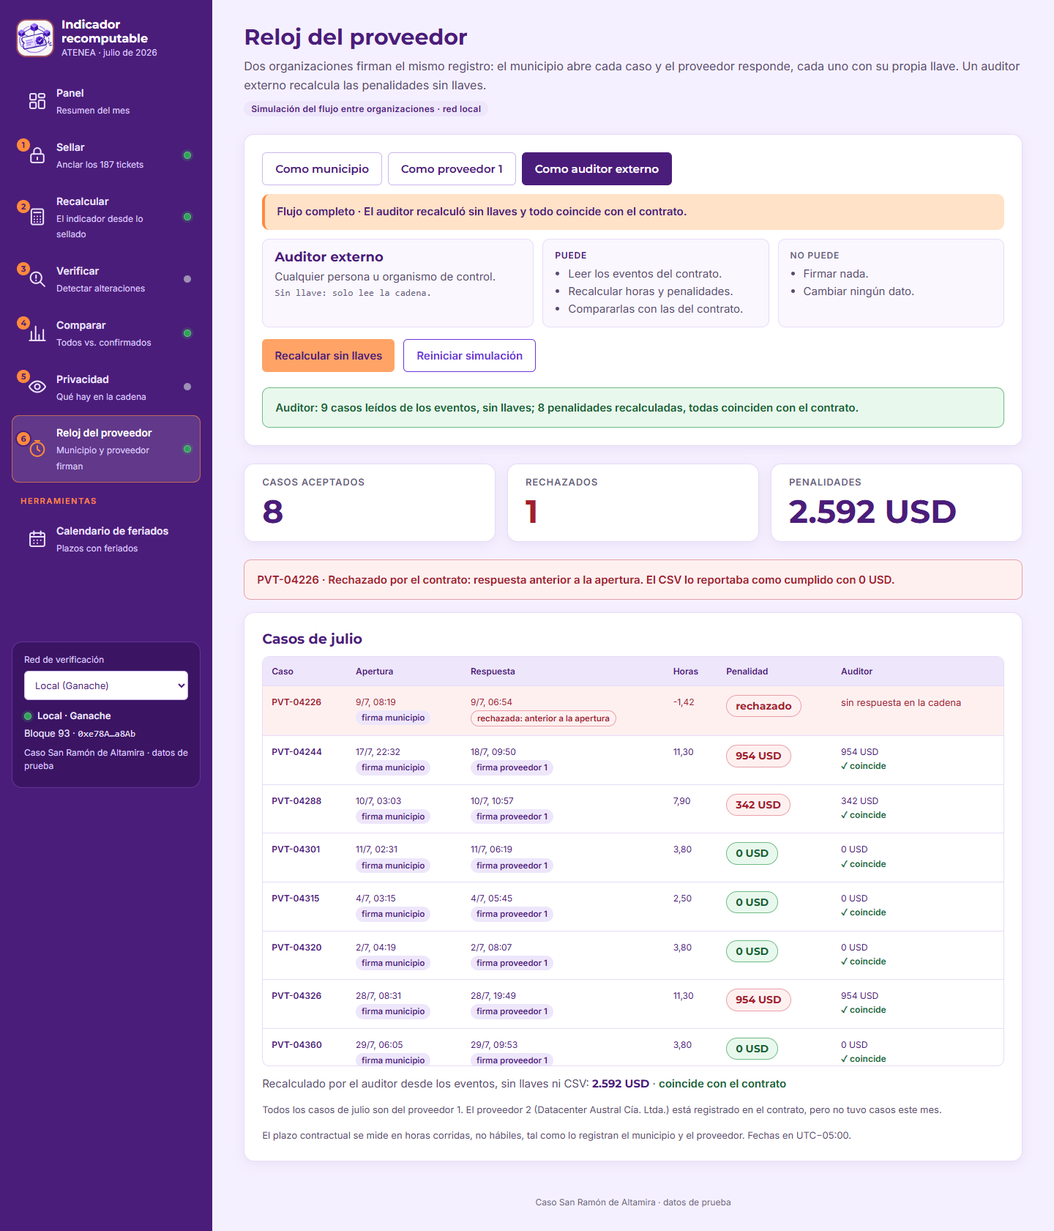
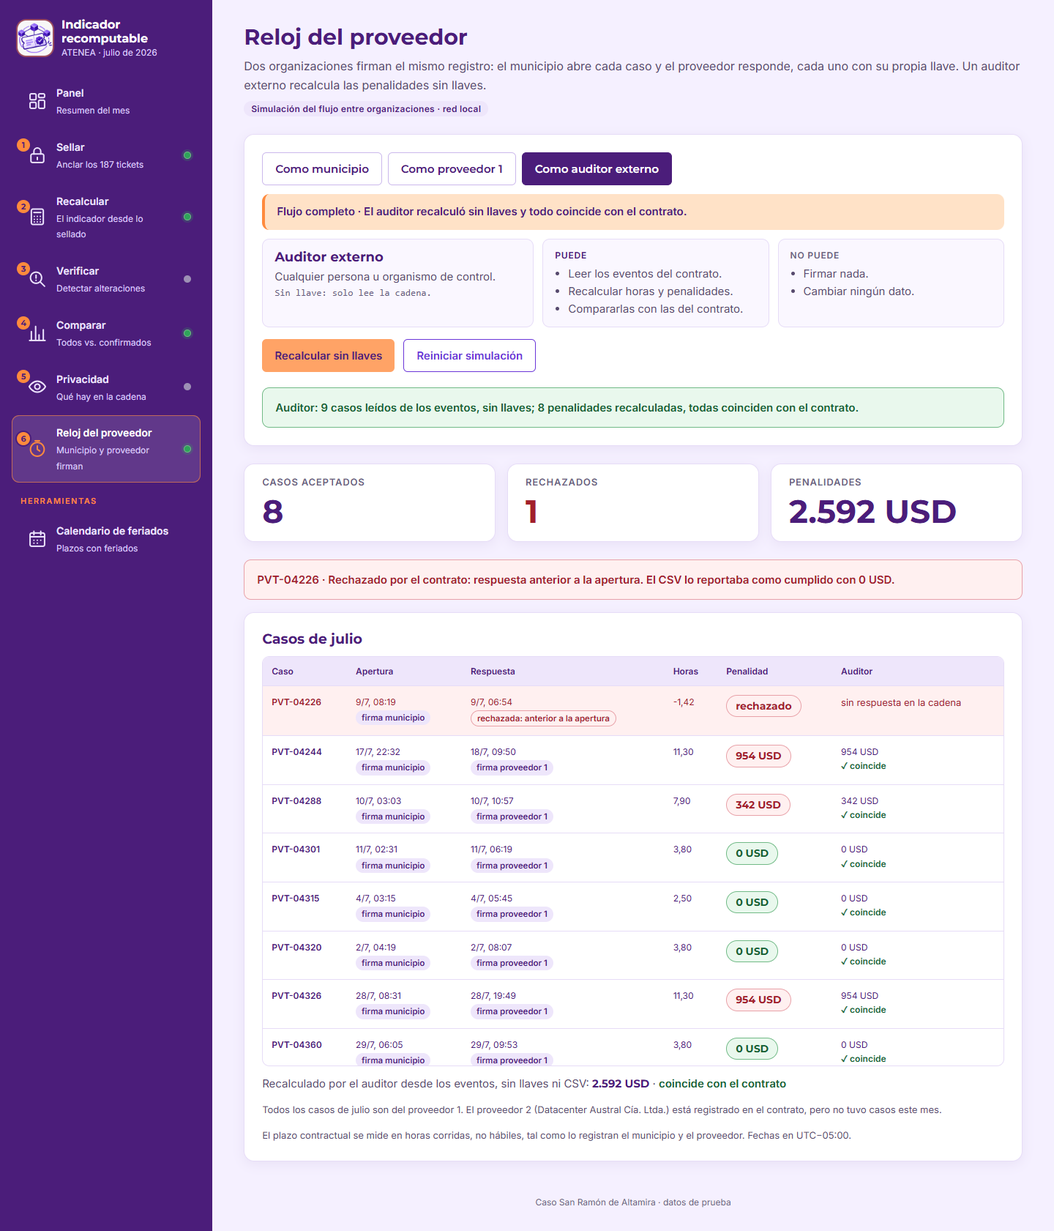
Fase 10B: sellado en vivo desde cero y menú más limpio
- npm run presentacion (scripts/presentacion.mjs): archiva el período activo de Sepolia en
  evidencias/sepolia-historial/ (archivarPeriodo, nada se borra; las sales siguen en .secreto/)
  y arranca la app en modo presentación, sin período activo. npm start conserva el período.
- GET /api/modo: {presentacion, sepoliaRpc}. La página abre en Sepolia por defecto; usa la red
  local si no hay internet o, fuera del modo presentación, si no hay período.
- Sellar: «Administración» arriba y abierta, con cuatro pasos numerados (Conectar MetaMask con
  cuenta, red y owner; Preparar nuevo período; Cargar originales; Sellar julio). Cada paso se
  habilita cuando el anterior está completo y los hechos quedan con ✓. Sin período activo:
  «Sin período activo · prepara un nuevo período para sellar julio».
- Menú lateral sin el cuadro «Red de verificación». El selector de red queda al final de
  Administración como respaldo; red, bloque y contrato (con Etherscan) pasan a una línea del
  Panel (mismos ids #rpcDot, #netName, #netBlock, #netContract).
- audit.mjs: elige la red local desde Administración; nueva prueba complementaria del arranque
  sin período (julio no aparece sellado, pasos 2 a 4 esperan al 1).
- README y docs/DEMO.md: el día de la presentación se usa npm.cmd run presentacion.
- npm test 62/62; verify:source 11/11; auditoría: Nivel 1 5/5 y Nivel 2 APROBADO.

Changed region(s): [[0.0, 0.5259, 0.1875, 0.6187]]

diff --git a/src/index.html b/src/index.html
@@ -60,14 +60,6 @@
       <li><a href="#/feriado" data-route="feriado"><svg class="icon"><use href="#i-calendar"/></svg><span class="item"><strong>Calendario de feriados</strong><small>Plazos con feriados</small></span></a></li>
     </ul>
   </nav>
-
-  <div class="netcard">
-    <label for="network">Red de verificación</label>
-    <select id="network"><option value="local">Local (Ganache)</option><option value="sepolia">Pública (Sepolia)</option></select>
-    <p class="netline"><span id="rpcDot" class="dot gray" role="img" aria-label="RPC: sin comprobar"></span><span id="netName">Conectando…</span></p>
-    <p class="netmeta">Bloque <span id="netBlock">—</span> · <span id="netContract" class="hash">—</span></p>
-    <p class="netnote">Caso San Ramón de Altamira · datos de prueba</p>
-  </div>
 </aside>
 
 <main id="main">
@@ -81,6 +73,7 @@
     <article class="card stat"><h2>Tickets sellados</h2><p class="stat-value" id="sumCount">—</p><p class="small">Cantidad registrada en la cadena.</p></article>
     <article class="card stat"><h2>Brecha A − B</h2><p class="stat-value" id="sumGap">—</p><p class="small">Puntos porcentuales entre todos los cierres y los confirmados.</p></article>
   </div>
+  <p class="panel-net"><span id="rpcDot" class="dot gray" role="img" aria-label="RPC: sin comprobar"></span><span id="netName">Conectando…</span><span class="sep">·</span><span>Bloque <span id="netBlock">—</span></span><span class="sep">·</span><span>Contrato <span id="netContract" class="hash">—</span></span></p>
   <div class="card">
     <h2>Verificación del mes</h2>
     <ol id="demoScript" class="script">
@@ -97,21 +90,48 @@
 
 <section id="s1" class="view" data-route="sellar" aria-labelledby="t-sellar" hidden>
   <header class="viewhead"><h1 id="t-sellar" tabindex="-1">Sellar</h1><p>Anclar en la cadena el compromiso de los 187 tickets de julio, sin datos personales.</p></header>
+  <details id="adminFlow" class="admin flow" open><summary>Administración · sellar julio</summary>
+    <ol class="flow-steps">
+      <li class="flow-step" data-flow-step="1"><span class="flow-num" aria-hidden="true">1</span><div class="flow-body">
+        <h3>Conectar MetaMask</h3>
+        <p id="walletInfo" class="small">Sin conectar.</p>
+        <button id="connectWallet" type="button" class="secondary">Conectar MetaMask</button>
+      </div></li>
+      <li class="flow-step" data-flow-step="2"><span class="flow-num" aria-hidden="true">2</span><div class="flow-body">
+        <h3>Preparar nuevo período en Sepolia</h3>
+        <p id="periodInfo" class="small"></p>
+        <button id="prepareSepolia" type="button" class="secondary">Preparar nuevo período en Sepolia</button>
+        <output id="adminStatus" class="status info" aria-live="polite" hidden></output>
+      </div></li>
+      <li class="flow-step" data-flow-step="3"><span class="flow-num" aria-hidden="true">3</span><div class="flow-body">
+        <h3>Cargar los originales entregados</h3>
+        <p class="small">Se valida cada archivo contra la huella de la carpeta fuente verificada. Cada columna de los tickets participa en el compromiso; del catálogo, el reporte publicado, la bitácora y las reaperturas solo entra su SHA-256.</p>
+        <button id="load">Cargar los originales entregados</button>
+        <details><summary>Seleccionar los originales a mano</summary>
+          <p class="small">Sus huellas deben coincidir con las de la carpeta fuente verificada.</p>
+          <div class="inputs">
+            <label>Tickets<input id="originalTickets" type="file" accept=".csv"></label>
+            <label>Catálogo de servicios<input id="originalCatalog" type="file" accept=".csv"></label>
+            <label>Reporte mensual publicado<input id="originalReport" type="file" accept=".csv"></label>
+            <label>Bitácora de eventos<input id="originalBitacora" type="file" accept=".csv"></label>
+            <label>Reaperturas<input id="originalReopenings" type="file" accept=".csv"></label>
+          </div>
+          <button id="prepareFiles">Validar originales seleccionados</button>
+        </details>
+      </div></li>
+      <li class="flow-step" data-flow-step="4"><span class="flow-num" aria-hidden="true">4</span><div class="flow-body">
+        <h3>Sellar julio en blockchain</h3>
+        <button id="seal" disabled>Sellar julio en blockchain</button>
+        <p id="sealHint" class="small seal-hint" aria-live="polite">Primero carga los originales.</p>
+      </div></li>
+    </ol>
+    <div class="netpick">
+      <label for="network">Red · respaldo para emergencias</label>
+      <select id="network"><option value="sepolia">Pública (Sepolia)</option><option value="local">Local (Ganache)</option></select>
+      <p id="netHint" class="small">Usa «Local (Ganache)» solo si falla internet: funciona en este equipo y sella sin MetaMask.</p>
+    </div>
+  </details>
   <div class="card">
-    <p>Se valida cada archivo contra la huella de la carpeta fuente verificada. Cada columna de los tickets participa en el compromiso; del catálogo, el reporte publicado, la bitácora y las reaperturas solo entra su SHA-256. Una verificación posterior no puede cambiar el sello.</p>
-    <div class="actions"><button id="load">Cargar los originales entregados</button><button id="seal" disabled>Sellar julio en blockchain</button></div>
-    <p id="sealHint" class="small seal-hint" aria-live="polite">Primero carga los originales.</p>
-    <details><summary>Seleccionar los originales a mano</summary>
-      <p class="small">Sus huellas deben coincidir con las de la carpeta fuente verificada.</p>
-      <div class="inputs">
-        <label>Tickets<input id="originalTickets" type="file" accept=".csv"></label>
-        <label>Catálogo de servicios<input id="originalCatalog" type="file" accept=".csv"></label>
-        <label>Reporte mensual publicado<input id="originalReport" type="file" accept=".csv"></label>
-        <label>Bitácora de eventos<input id="originalBitacora" type="file" accept=".csv"></label>
-        <label>Reaperturas<input id="originalReopenings" type="file" accept=".csv"></label>
-      </div>
-      <button id="prepareFiles">Validar originales seleccionados</button>
-    </details>
     <output id="sealStatus" class="status pending" aria-live="polite">Sin sellado comprobado.</output>
     <div id="commitment" class="factbox"></div>
     <div id="sealLinks" class="seal-links"></div>
@@ -119,11 +139,6 @@
     <details><summary>Respaldo del sello</summary>
       <p class="small">Copia del manifiesto con la huella de los 187 tickets. La app ya la guarda sola en evidencias/; es una copia de respaldo.</p>
       <button id="export" class="secondary" disabled>Descargar respaldo del sellado</button>
-    </details>
-    <details class="admin"><summary>Administración</summary>
-      <p class="small">Antes de cada presentación: despliega con MetaMask un contrato nuevo en Sepolia para que julio quede sin sellar. El servidor lo comprueba en la red pública antes de usarlo; el período anterior queda en el historial.</p>
-      <button id="prepareSepolia" type="button" class="secondary">Preparar nuevo período en Sepolia</button>
-      <output id="adminStatus" class="status info" aria-live="polite" hidden></output>
     </details>
   </div>
   <a class="next" href="#/recalcular" data-next="sellar" hidden>Siguiente: Recalcular <svg class="icon"><use href="#i-arrow"/></svg></a>

diff --git a/src/style.css b/src/style.css
@@ -201,20 +201,11 @@ main {
 .dot.red { background: var(--red-dot); box-shadow: 0 0 0 3px rgba(214, 64, 78, 0.25); }
 .dot.gray { background: var(--gray-dot); }
 
-.netcard {
-  margin-top: auto;
-  padding: var(--space-4);
-  border: 1px solid var(--navy-line);
-  border-radius: var(--radius-lg);
-  background: var(--navy-deep);
-  font-size: 13px;
-}
-.netcard label { display: block; color: var(--ice); font-size: 12px; margin-bottom: var(--space-2); min-width: 0; }
-.netcard select { margin: 0 0 var(--space-3); background: #fff; }
-.netcard p { margin: var(--space-1) 0; color: #ede4ff; line-height: 1.5; }
-.netline { display: flex; align-items: center; gap: var(--space-2); font-weight: 600; }
-.netmeta { color: var(--ice); overflow-wrap: anywhere; }
-.netnote { color: var(--ice) !important; font-size: 12px; margin-top: var(--space-2) !important; }
+/* Red activa: una línea en el Panel (antes era un cuadro en el menú lateral). */
+.panel-net { display: flex; flex-wrap: wrap; align-items: center; gap: var(--space-1) var(--space-2); margin: calc(-1 * var(--space-2)) 0 var(--space-5); font-size: 13px; color: var(--text); overflow-wrap: anywhere; }
+.panel-net #netName { font-weight: 600; color: var(--ink); }
+.panel-net .sep { color: var(--gray-dot); }
+.panel-net a { color: var(--teal); font-weight: 600; }
 
 /* ---------- Vistas ---------- */
 
@@ -493,9 +484,30 @@ table.cases td.small { white-space: normal; min-width: 190px; }
 /* ---------- Sepolia con MetaMask ---------- */
 .seal-links { margin: var(--space-3) 0 var(--space-2); font-weight: 600; }
 .seal-links:empty { display: none; }
-.netmeta a { color: #fff; text-decoration: underline; text-underline-offset: 2px; }
 details.admin { background: transparent; border: 1px dashed var(--border-strong); }
 details.admin summary { font-weight: 600; color: var(--text); }
+/* Sellado en vivo: cuatro pasos numerados; cada uno se habilita cuando el anterior está completo. */
+details.admin.flow { background: var(--surface); border: 1px solid var(--border); box-shadow: var(--shadow); margin-bottom: var(--space-5); }
+details.admin.flow > summary { font-family: var(--font-display); font-size: 17px; color: var(--navy); }
+.flow-steps { list-style: none; margin: var(--space-4) 0 0; padding: 0; display: grid; gap: var(--space-3); }
+.flow-step { display: grid; grid-template-columns: 36px minmax(0, 1fr); gap: var(--space-3); padding: var(--space-3) var(--space-4); border: 1px solid var(--border); border-radius: var(--radius); background: var(--surface-soft); }
+.flow-step h3 { margin: 4px 0 var(--space-1); font-family: var(--font-display); font-size: 16px; color: var(--navy); }
+.flow-step p { margin: 0 0 var(--space-2); }
+.flow-step button { margin: 0 0 var(--space-1); }
+.flow-step details { margin-top: var(--space-2); }
+.flow-num { display: grid; place-items: center; width: 32px; height: 32px; border-radius: 50%; background: #fff; border: 2px solid var(--border-strong); color: var(--muted); font: 700 15px/1 var(--font-display); }
+.flow-step.current { border-color: var(--accent); background: #fff; }
+.flow-step.current .flow-num { border-color: var(--accent); background: var(--accent); color: #fff; }
+.flow-step.done .flow-num { border-color: var(--navy); background: var(--navy); color: transparent; position: relative; }
+.flow-step.done .flow-num::after { content: "✓"; position: absolute; color: #fff; font-size: 16px; }
+.flow-step.na { opacity: 0.6; }
+.flow-step.na .flow-num { border-style: dashed; }
+.wallet-ok { font-weight: 600; color: var(--ink); }
+.wallet-no { font-weight: 600; color: var(--amber-ink); }
+.netpick { margin-top: var(--space-4); padding-top: var(--space-3); border-top: 1px dashed var(--border-strong); max-width: 420px; }
+.netpick label { display: block; font-size: 13px; font-weight: 600; color: var(--text); }
+.netpick select { margin-top: var(--space-1); }
+.netpick p { margin: var(--space-1) 0 0; }
 
 /* ---------- Reloj del proveedor por roles ---------- */
 .sim-note { display: inline-block; margin-top: var(--space-2); padding: 3px 10px; border-radius: 999px; background: #eee6fb; color: var(--ink); font-size: 12px; font-weight: 600; letter-spacing: 0.3px; }

diff --git a/docs/DEMO.md b/docs/DEMO.md
@@ -5,9 +5,9 @@ Hilo conductor: julio de 2026. Los cinco criterios del Nivel 1, en su orden, y d
 ## Preparación (antes del cronómetro)
 
 1. `npm.cmd ci --no-audit --no-fund` y `npm.cmd test` (todo en verde).
-2. Cerrar cualquier proceso en los puertos 8080 y 8545 y ejecutar `npm.cmd start` en la computadora del municipio. Abrir http://127.0.0.1:8080. (Para Sepolia no usar Render: su disco no guarda la sal entre reinicios.)
+2. Cerrar cualquier proceso en los puertos 8080 y 8545 y ejecutar **`npm.cmd run presentacion`** en la computadora del municipio. Archiva el período activo de Sepolia en `evidencias/sepolia-historial/` (no borra nada: las sales siguen en `.secreto/`) y abre la app **sin período activo**. Abrir http://127.0.0.1:8080: Sellar dice «Sin período activo · prepara un nuevo período para sellar julio». (Para Sepolia no usar Render: su disco no guarda la sal entre reinicios.)
 3. MetaMask: cuenta del municipio, red Sepolia, con Sepolia ETH de prueba.
-4. **Preparar nuevo período**: vista Sellar → «Administración» → «Preparar nuevo período en Sepolia» → firmar en MetaMask. Esperar «Período preparado… sin sellar, comprobado en Sepolia». El selector de red queda en «Pública (Sepolia)» y julio sin sellar.
+4. Si la app se cierra por accidente durante la presentación, reabrirla con `npm.cmd start`: conserva el último período activo y su sello. (Si se cerró antes de preparar el período, volver a usar `npm.cmd run presentacion`.)
 5. Abrir en el Bloc de notas una **copia** de `datos/tickets.csv` (por ejemplo en el Escritorio). No editar el original y no usar un editor con autoguardado: guardaría el cambio a medio escribir. Dejar el cursor en TK-2026-04201, primera fila.
 6. Tener a mano las dos láminas de `presentacion/`.
 7. Sin internet: usar la red «Local (Ganache)» con `npm.cmd run demo` (o `INICIAR_DEMO.cmd`), que crea una instancia nueva sin sellar. Todo funciona igual, sellando sin MetaMask.
@@ -19,7 +19,7 @@ La demo sigue el menú lateral de arriba hacia abajo: **Panel → 1 Sellar → 2
 | Tiempo | Vista (criterio) | Acción visible | Mensaje |
 |---|---|---|---|
 | 0:00–0:15 | Panel | Mostrar el titular, las cuatro tarjetas en pendiente y el guion sin checks. | Esto es lo que vamos a demostrar en cinco minutos. |
-| 0:15–0:50 | Sellar (1) | Red «Pública (Sepolia)». «Cargar los originales entregados» → 187/187. «Sellar julio en blockchain» → firmar en MetaMask → «Esperando confirmación de la red…» → SELLADO CONFIRMADO y «✓ Julio ya está sellado». Abrir el enlace «Transacción del sello en Etherscan». | El municipio firma con su propia llave, que nunca sale de MetaMask. Anclamos los 187 tickets con sus tiempos y su SLA; en cadena solo van hashes, conteos y período. |
+| 0:15–1:10 | Sellar (1) | «Administración», arriba y abierta, en cuatro pasos: ① «Conectar MetaMask» (cuenta, red y «Es la cuenta del municipio») → ② «Preparar nuevo período en Sepolia» → firmar → «Período preparado… sin sellar» → ③ «Cargar los originales entregados» → 187/187 → ④ «Sellar julio en blockchain» → firmar → «Esperando confirmación de la red…» → SELLADO CONFIRMADO y «✓ Julio ya está sellado». Cada paso hecho queda con ✓. Abrir «Transacción del sello en Etherscan». | El municipio firma con su propia llave, que nunca sale de MetaMask. Anclamos los 187 tickets con sus tiempos y su SLA; en cadena solo van hashes, conteos y período. |
 | 0:50–2:00 | Recalcular (2) | «Recalcular desde lo sellado» → VERDE. Mostrar la cascada, la tabla de cuatro indicadores, la tarjeta de TK-2026-04228 y la de reaperturas. | **Publicado 98,25 %; solo confirmados por el usuario 55,61 %.** El 171 publicado sale de 187 − 7 reaperturas − 9 casos del proveedor. TK-2026-04228 se resolvió en 5,80 h y alguien lo editó a 3,80 h dos días después: solo la bitácora lo revela. Cinco reaperturas debieron conservar su número. Cada exclusión o edición mejora el número publicado. |
 | 2:00–3:00 | Verificar (3) | En la copia del CSV cambiar `fecha_resolucion` de TK-2026-04201 de `2026-08-03T12:03:55-05:00` a `2026-08-03T12:04:55-05:00`. Guardar, elegirla en «CSV que se va a verificar» y pulsar «Verificar nuevamente contra blockchain». Los puntos de Verificar, Recalcular y Comparar se ponen rojos. | ROJO con el ticket y el campo, el valor sellado frente al editado, y el sello no cambió. Un minuto de diferencia basta. |
 | 3:00–3:45 | Comparar (4) | Ir a Comparar y pulsar «Recalcular para comparar»: descarta la copia y verifica el original (VERDE). En «Mostrar», elegir «Los que no cuentan en B». | 100 % contando todos los cierres; 55,61 % contando solo los confirmados. Los 83 cierres automáticos (44 %) explican 44,39 puntos: el hallazgo. |
@@ -27,7 +27,7 @@ La demo sigue el menú lateral de arriba hacia abajo: **Panel → 1 Sellar → 2
 | 4:40–5:40 | Reloj del proveedor (Nivel 2, red local) | «Reiniciar simulación» si ya se usó. «Como municipio» → «Firmar apertura de 9 casos». «Como proveedor 1» → «Firmar respuestas»: PVT-04226 en rojo. «Como auditor externo» → «Recalcular sin llaves» → «coincide» y **2.592 USD**. | Aquí hay dos organizaciones, un contrato y dinero. El municipio firma la apertura y el proveedor su respuesta, cada uno con su llave. El CSV daba PVT-04226 como cumplido con −1,42 h; el contrato lo rechaza. Cualquiera recalcula las penalidades desde los eventos, sin llaves. |
 | 5:40–6:00 | Panel y cierre | Volver al Panel: los seis pasos con check y la brecha de 44,39 pp. Lámina 2. | La cadena solo donde hay una frontera de confianza: el indicador público y el reloj con el proveedor. Lo interno, con logs firmados. |
 
-Los criterios 2 a 5 leen Sepolia por RPC público, sin MetaMask. Si MetaMask o la red pública fallan en vivo, cambiar a «Local (Ganache)» y repetir desde Sellar: todo funciona igual sin internet. Al cambiar de red se reinicia el estado de la sesión (puntos y guion), porque cada red tiene su propio sello.
+Los criterios 2 a 5 leen Sepolia por RPC público, sin MetaMask. La app abre en Sepolia; si no hay internet, abre sola la red local. Si MetaMask o la red pública fallan en vivo, en Sellar → «Administración», al final, elegir «Local (Ganache)» (respaldo para emergencias) y repetir desde el paso ③: todo funciona igual sin internet. La dirección del contrato activo, con su enlace a Etherscan, se ve en el paso ② de Sellar y en la línea de red del Panel. Al cambiar de red se reinicia el estado de la sesión (puntos y guion), porque cada red tiene su propio sello.
 
 «Calendario de feriados», bajo «Herramientas», queda fuera del cronómetro: sirve para la pregunta sobre feriados.
 

diff --git a/README.md b/README.md
@@ -98,17 +98,22 @@ El municipio despliega y sella **desde la página, firmando con MetaMask**: la l
 
 **Una sola vez:** instalar MetaMask, crear una cuenta **de prueba** para el municipio y pedir Sepolia ETH en un faucet (con 0,05 ETH sobra). Para la presentación la app corre en la computadora del municipio con `npm.cmd start`.
 
-**Antes de cada presentación** (deja julio sin sellar):
+**El día de la presentación:** `npm.cmd run presentacion`. Archiva el período activo (configuración y evidencia) en `evidencias/sepolia-historial/`, sin borrar sales ni historial, y abre la app sin período activo: julio no aparece sellado y se sella en vivo. `npm.cmd start` conserva el último período activo, para reabrir la app sin perder nada.
 
-1. Vista **Sellar** → desplegable **Administración** → **Preparar nuevo período en Sepolia**. MetaMask pide cambiar a Sepolia si hace falta y firmar el despliegue de `RegistroIndicador` (bytecode de `contracts/RegistroIndicador.json`, con el `rulesHash` de estas reglas).
-2. El servidor comprueba en la red pública que el código desplegado es `RegistroIndicador`, que el `rulesHash` es el correcto y que el owner es quien lo desplegó. Solo entonces escribe `evidencias/red-sepolia.json`. El período anterior pasa a `evidencias/sepolia-historial/`; no se borra.
+La app abre en Sepolia por defecto. Si no hay internet (o, con `npm.cmd start`, no hay ningún período), abre la red local. El selector de red está al final de **Administración**, como respaldo para emergencias. La dirección del contrato y su enlace a Etherscan se ven en Sellar (paso 2) y en el Panel.
 
-**En vivo:**
+**Sellar en vivo**, en la vista **Sellar** → **Administración** (arriba y abierta), cuatro pasos que se habilitan en orden y se marcan con ✓:
 
-3. Con la red **Pública (Sepolia)** elegida: **Cargar los originales entregados** → **Sellar julio en blockchain**. Antes de firmar se comprueba que la cuenta de MetaMask sea el `owner()`; si no, se explica que solo el municipio puede sellar.
-4. La sal secreta se genera en el navegador y se guarda en el servidor **antes** de firmar, en `.secreto/sal-sepolia-<dirección del contrato>.json` (un archivo por contrato, para que un período nuevo no choque con el anterior). Nunca va a la cadena ni a `evidencias/`. Tras el sello, el botón **Descargar sal secreta (respaldo)** guarda una copia.
-5. El servidor lee la transacción por RPC público, comprueba ancla, evidencia y sal, y guarda `evidencias/sello-sepolia.json` y el bloque del sello (`sealBlock`) en la configuración. La vista muestra «✓ Julio ya está sellado» y enlaces a sepolia.etherscan.io de la transacción y del contrato; la tarjeta de red también enlaza el contrato.
-6. Recalcular, Verificar (incluida la edición manual del CSV que da ROJO), Comparar y Privacidad leen Sepolia por RPC público, sin MetaMask. Privacidad revisa la calldata y los eventos reales.
+1. **Conectar MetaMask**: muestra la cuenta, la red y si es la cuenta del municipio (owner del contrato).
+2. **Preparar nuevo período en Sepolia**. MetaMask pide cambiar a Sepolia si hace falta y firmar el despliegue de `RegistroIndicador` (bytecode de `contracts/RegistroIndicador.json`, con el `rulesHash` de estas reglas). El servidor comprueba en la red pública que el código desplegado es `RegistroIndicador`, que el `rulesHash` es el correcto y que el owner es quien lo desplegó. Solo entonces escribe `evidencias/red-sepolia.json`. El período anterior pasa a `evidencias/sepolia-historial/`; no se borra.
+3. **Cargar los originales entregados**.
+4. **Sellar julio en blockchain**. Antes de firmar se comprueba que la cuenta de MetaMask sea el `owner()`; si no, se explica que solo el municipio puede sellar.
+
+Lo que pasa por dentro:
+
+- La sal secreta se genera en el navegador y se guarda en el servidor **antes** de firmar, en `.secreto/sal-sepolia-<dirección del contrato>.json` (un archivo por contrato, para que un período nuevo no choque con el anterior). Nunca va a la cadena ni a `evidencias/`. Tras el sello, el botón **Descargar sal secreta (respaldo)** guarda una copia.
+- El servidor lee la transacción por RPC público, comprueba ancla, evidencia y sal, y guarda `evidencias/sello-sepolia.json` y el bloque del sello (`sealBlock`) en la configuración. La vista muestra «✓ Julio ya está sellado» y enlaces a sepolia.etherscan.io de la transacción y del contrato; la línea de red del Panel también enlaza el contrato.
+- Recalcular, Verificar (incluida la edición manual del CSV que da ROJO), Comparar y Privacidad leen Sepolia por RPC público, sin MetaMask. Privacidad revisa la calldata y los eventos reales.
 
 Opcional: con `SEPOLIA_MUNICIPIO=0x…` en el entorno del servidor, solo esa cuenta puede preparar períodos.
 

diff --git a/docs/AUDITORIA.md b/docs/AUDITORIA.md
@@ -1,6 +1,6 @@
 # Auditoría Nivel 1 — Reto 03
 
-Ejecución UTC: 2026-11-14T04:46:58.811Z → 2026-11-14T04:48:57.027Z. Zona de presentación: America/Guayaquil.
+Ejecución UTC: 2026-11-14T05:42:55.364Z → 2026-11-14T05:45:20.148Z. Zona de presentación: America/Guayaquil.
 
 Resultado: **NIVEL 1 COMPLETO**.
 
@@ -68,6 +68,7 @@ Resultado: **NIVEL 2 COMPLETO**.
 - Segundo sellado rechazado por EVM: APROBADO.
 - Simulación de feriado 2026-07-24: 4 tickets cambian de estado, sin tocar el sello: APROBADO.
 - Sepolia: sello leído en solo lectura por RPC público: APROBADO.
+- Sin período activo (arranque de presentación): «Sin período activo», julio no aparece sellado y los pasos 2 a 4 esperan al paso 1: APROBADO.
 - RPC bloqueado: sin verde ni indicadores acreditados: APROBADO.
 - Proxy /rpc: rechaza evm_revert, evm_mine y transacciones fuera del contrato; deja pasar lecturas: APROBADO.
 - Recarga: se conserva la vista de la ruta (#/comparar): APROBADO.
